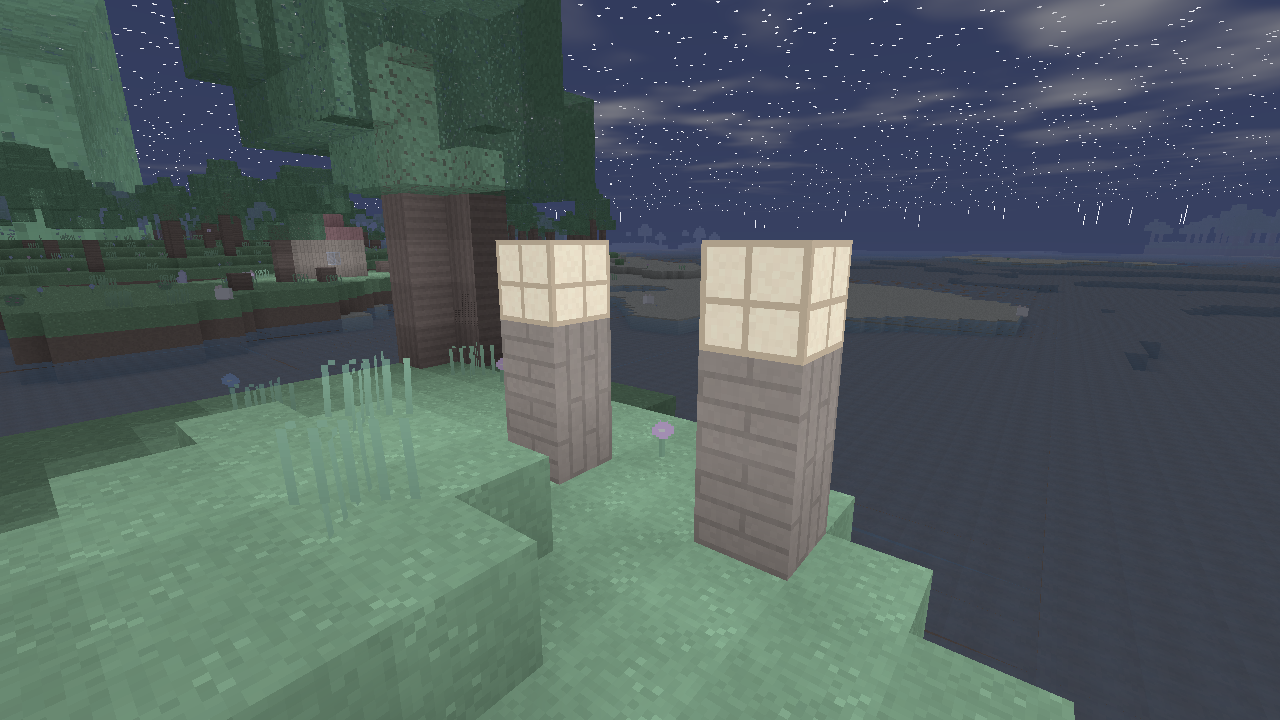
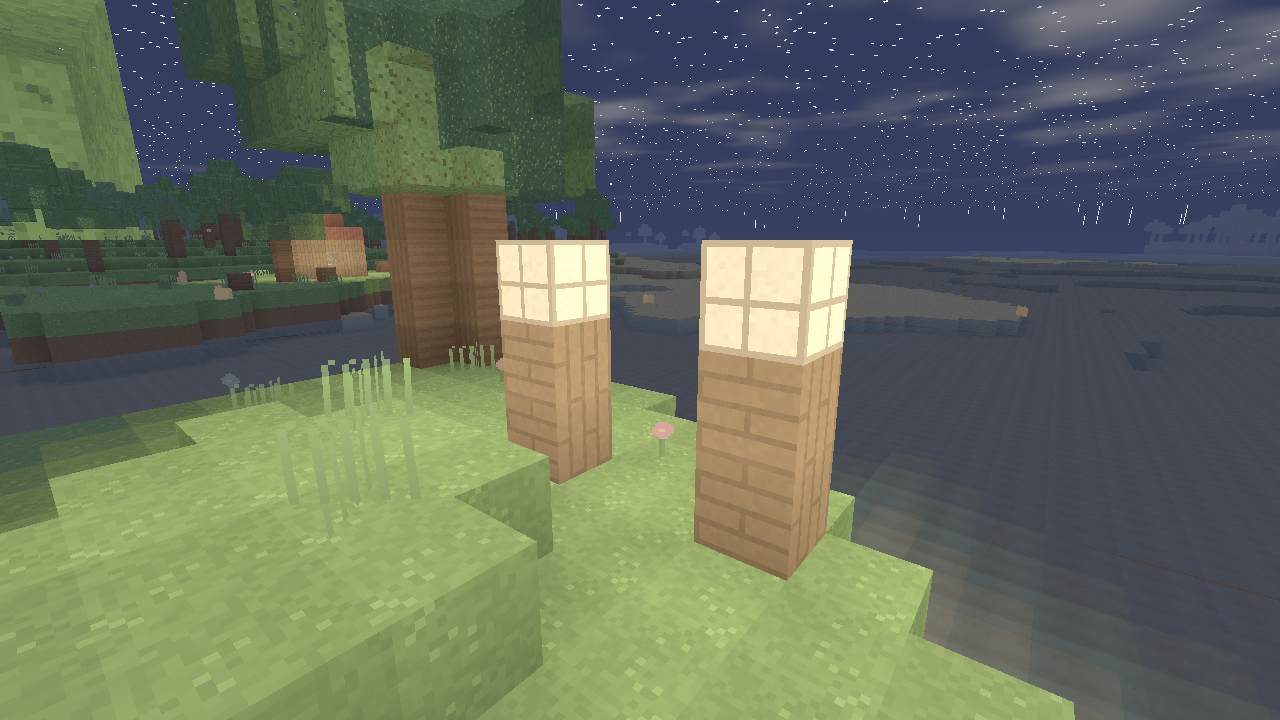
Stage 30: relight on edit + warm block light
- Editing an emitter/opacity-changing block now marks the surrounding 3x3x3
  chunk neighbourhood dirty, so placing a lantern actually lights the room (and
  removing one darkens it) on the next update.
- Shader combines sky light (tinted by sun/moon colour, dims at night) with warm
  block light per-channel, so lanterns glow gold even under cool night light —
  cosy lantern-lit interiors instead of grey ones.
- Screenshot tool builds a plank room with a hanging lantern to show it off.

diff --git a/crates/game/src/bin/screenshot.rs b/crates/game/src/bin/screenshot.rs
@@ -441,6 +441,61 @@ fn main() {
         println!("  wrote {path} (crystal at {crystal:?})");
     }
 
+    // Build a little plank room with a lantern and shoot its glowing interior
+    // at night — showing off building + the lighting payoff.
+    {
+        use pixelcraft_core::block::{blocks, BlockId};
+        use pixelcraft_core::coords::BlockPos;
+        let bx = ground.x.floor() as i32 - 6;
+        let by = ground.y.floor() as i32;
+        let bz = ground.z.floor() as i32 - 6;
+        // Hollow 7×5×7 plank box (floor, walls, roof) with a doorway.
+        for dx in 0..7 {
+            for dy in 0..5 {
+                for dz in 0..7 {
+                    let shell = dx == 0 || dx == 6 || dy == 0 || dy == 4 || dz == 0 || dz == 6;
+                    let door = dz == 0 && dx == 3 && (dy == 1 || dy == 2);
+                    let p = BlockPos::new(bx + dx, by + dy, bz + dz);
+                    let block = if door {
+                        BlockId::AIR
+                    } else if shell {
+                        blocks::PLANK
+                    } else {
+                        BlockId::AIR
+                    };
+                    game.manager.set_block(p, block);
+                }
+            }
+        }
+        // A lantern hanging inside.
+        game.manager.set_block(BlockPos::new(bx + 3, by + 3, bz + 3), blocks::LANTERN);
+        for _ in 0..10 {
+            game.manager.update(ground);
+        }
+        renderer.sync_meshes(&game.manager);
+        renderer.update_highlight(None);
+        renderer.update_particles(&pixelcraft_game::particle::ParticleSystem::new(0));
+        let clean_hud = pixelcraft_game::render::HudState {
+            inventory: &game.inventory,
+            registry: &game.manager.registry,
+            time_of_day: 0.72,
+            objective: None,
+            objective_progress: None,
+            dialogue: None,
+            weather: None,
+            crafting: None,
+        };
+        renderer.update_hud(&clean_hud);
+        let center = Vec3::new(bx as f32 + 3.5, by as f32 + 2.0, bz as f32 + 3.5);
+        let eye = Vec3::new(bx as f32 + 1.4, by as f32 + 2.2, bz as f32 + 1.4);
+        let forward = (center - eye).normalize();
+        let env = Environment { time_of_day: 0.72, day_length: 600.0 };
+        let camera = Camera::new(eye, forward, aspect);
+        let path = format!("{out_dir}/17_room.png");
+        renderer.capture(&camera, &env, &path);
+        println!("  wrote {path}");
+    }
+
     // A day→night→day timelapse GIF over the valley.
     make_timelapse(&game, ground, &out_dir);
 

diff --git a/crates/game/src/streaming.rs b/crates/game/src/streaming.rs
@@ -410,9 +410,32 @@ impl ChunkManager {
     }
 
     /// Edit a single block and mark the affected chunk(s) for remeshing. The
-    /// change takes visual effect on a subsequent `update`.
+    /// change takes visual effect on a subsequent `update`. Edits that change
+    /// emission or opacity also re-light (and thus remesh) the surrounding
+    /// chunk neighbourhood, so placing a lantern lights up the area.
     pub fn set_block(&mut self, pos: BlockPos, block: BlockId) -> bool {
-        self.world.set_block(pos, block)
+        let old = self.world.block_at(pos);
+        let applied = self.world.set_block(pos, block);
+        if applied && old != block {
+            let ob = self.registry.get(old);
+            let nb = self.registry.get(block);
+            let lighting_relevant = ob.light_emission > 0
+                || nb.light_emission > 0
+                || ob.occludes() != nb.occludes();
+            if lighting_relevant {
+                let c = pos.chunk();
+                for dz in -1..=1 {
+                    for dy in -1..=1 {
+                        for dx in -1..=1 {
+                            if let Some(ch) = self.world.get_chunk_mut(c.offset(dx, dy, dz)) {
+                                ch.dirty = true;
+                            }
+                        }
+                    }
+                }
+            }
+        }
+        applied
     }
 
     /// True if there are no outstanding generation jobs or dirty chunks — i.e.
